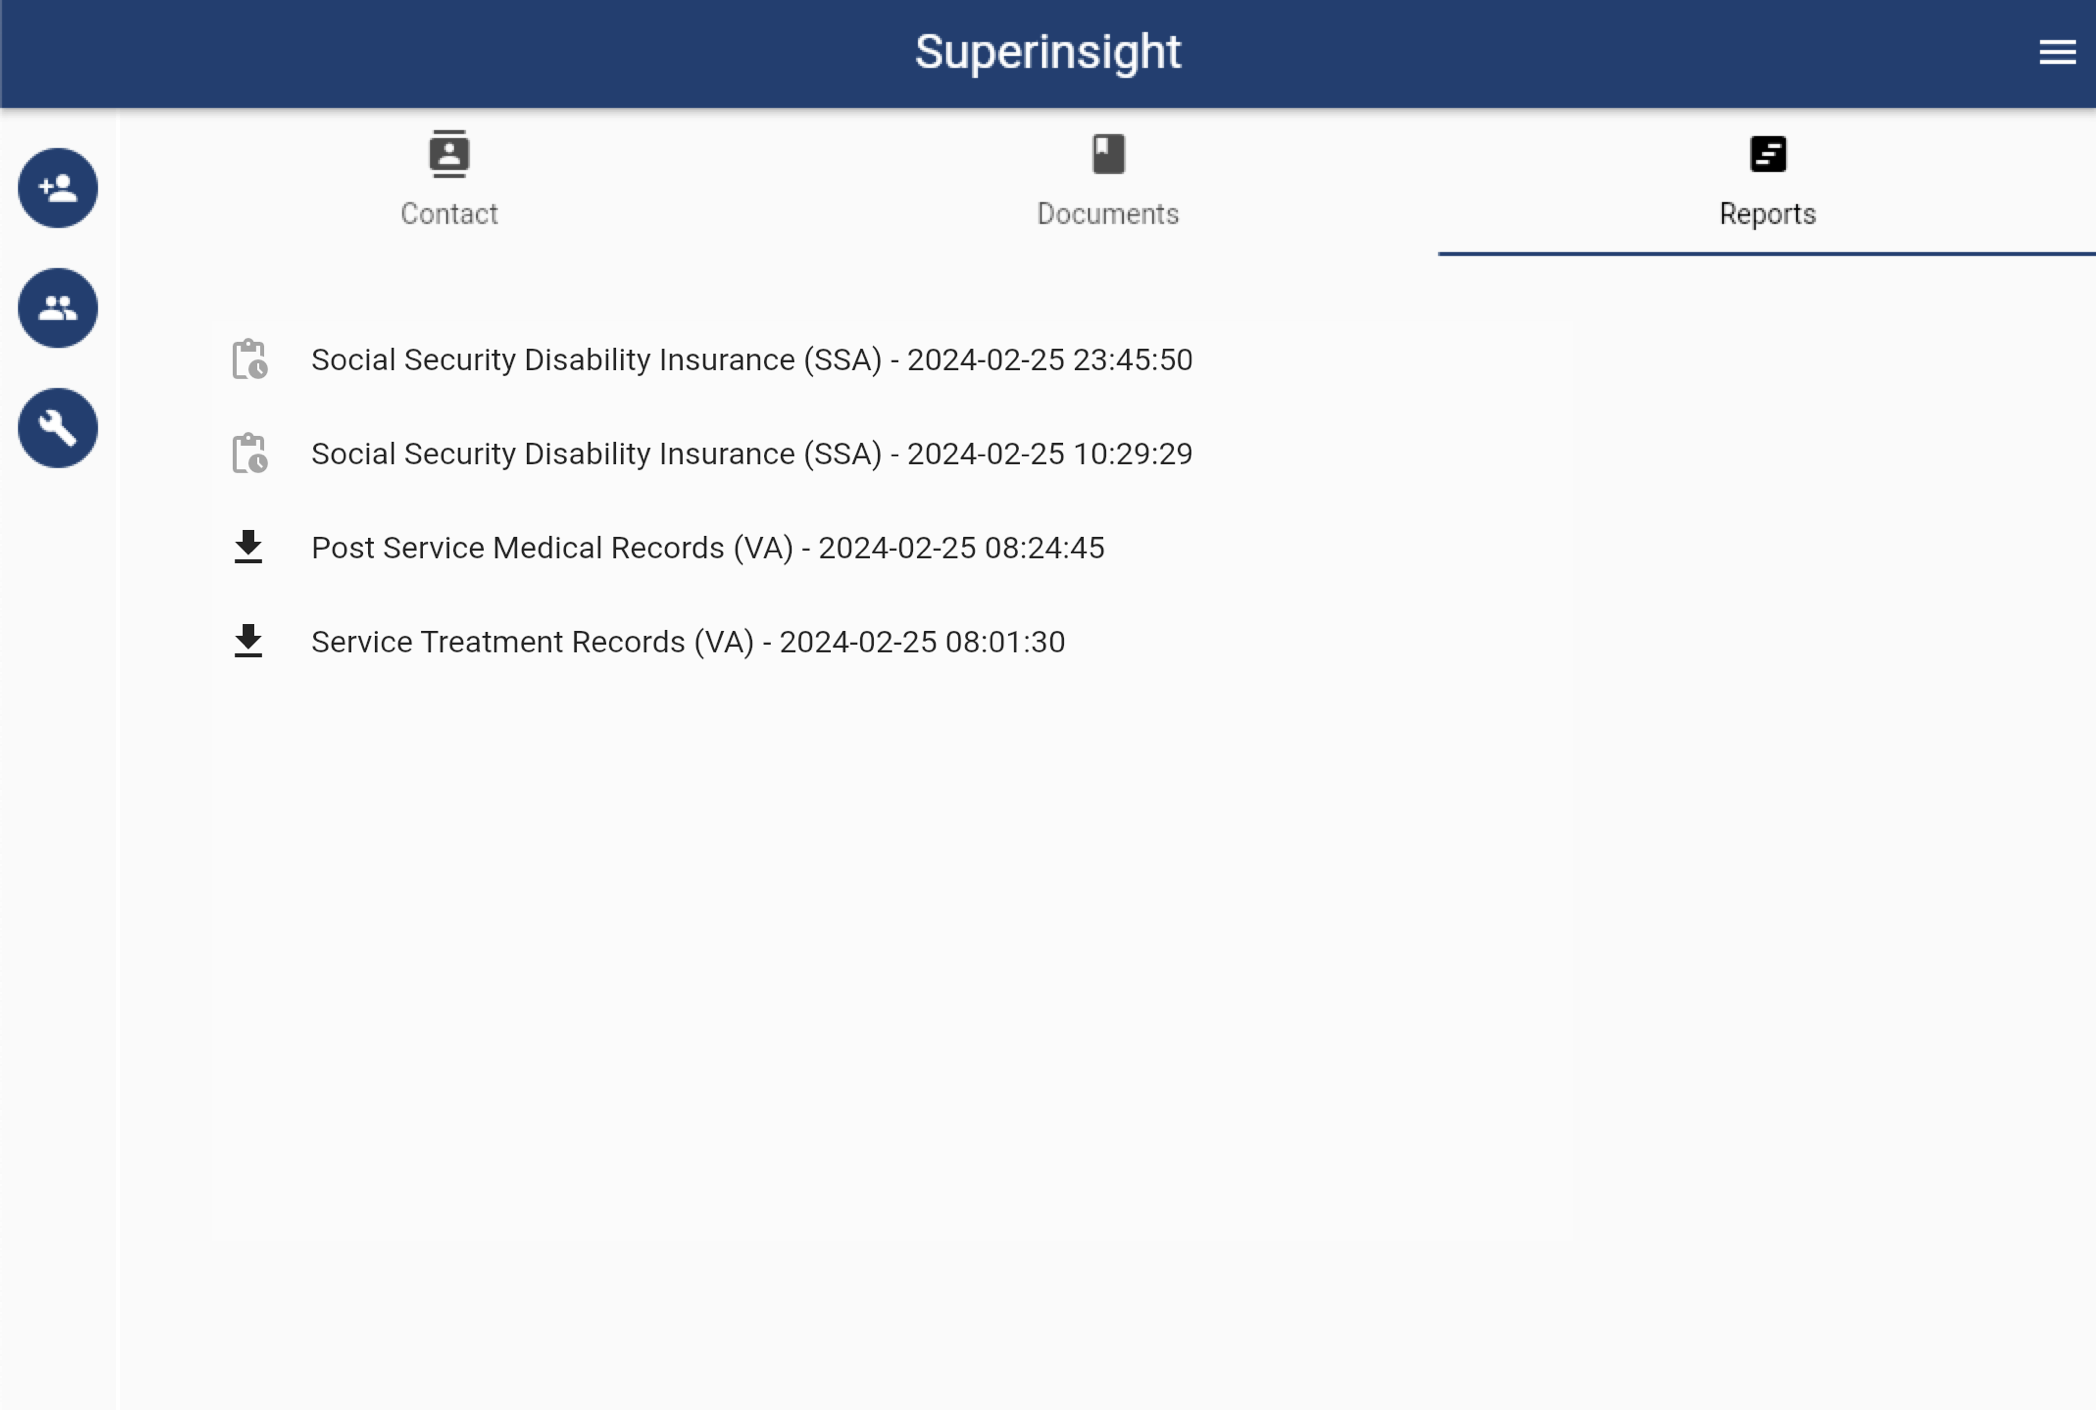
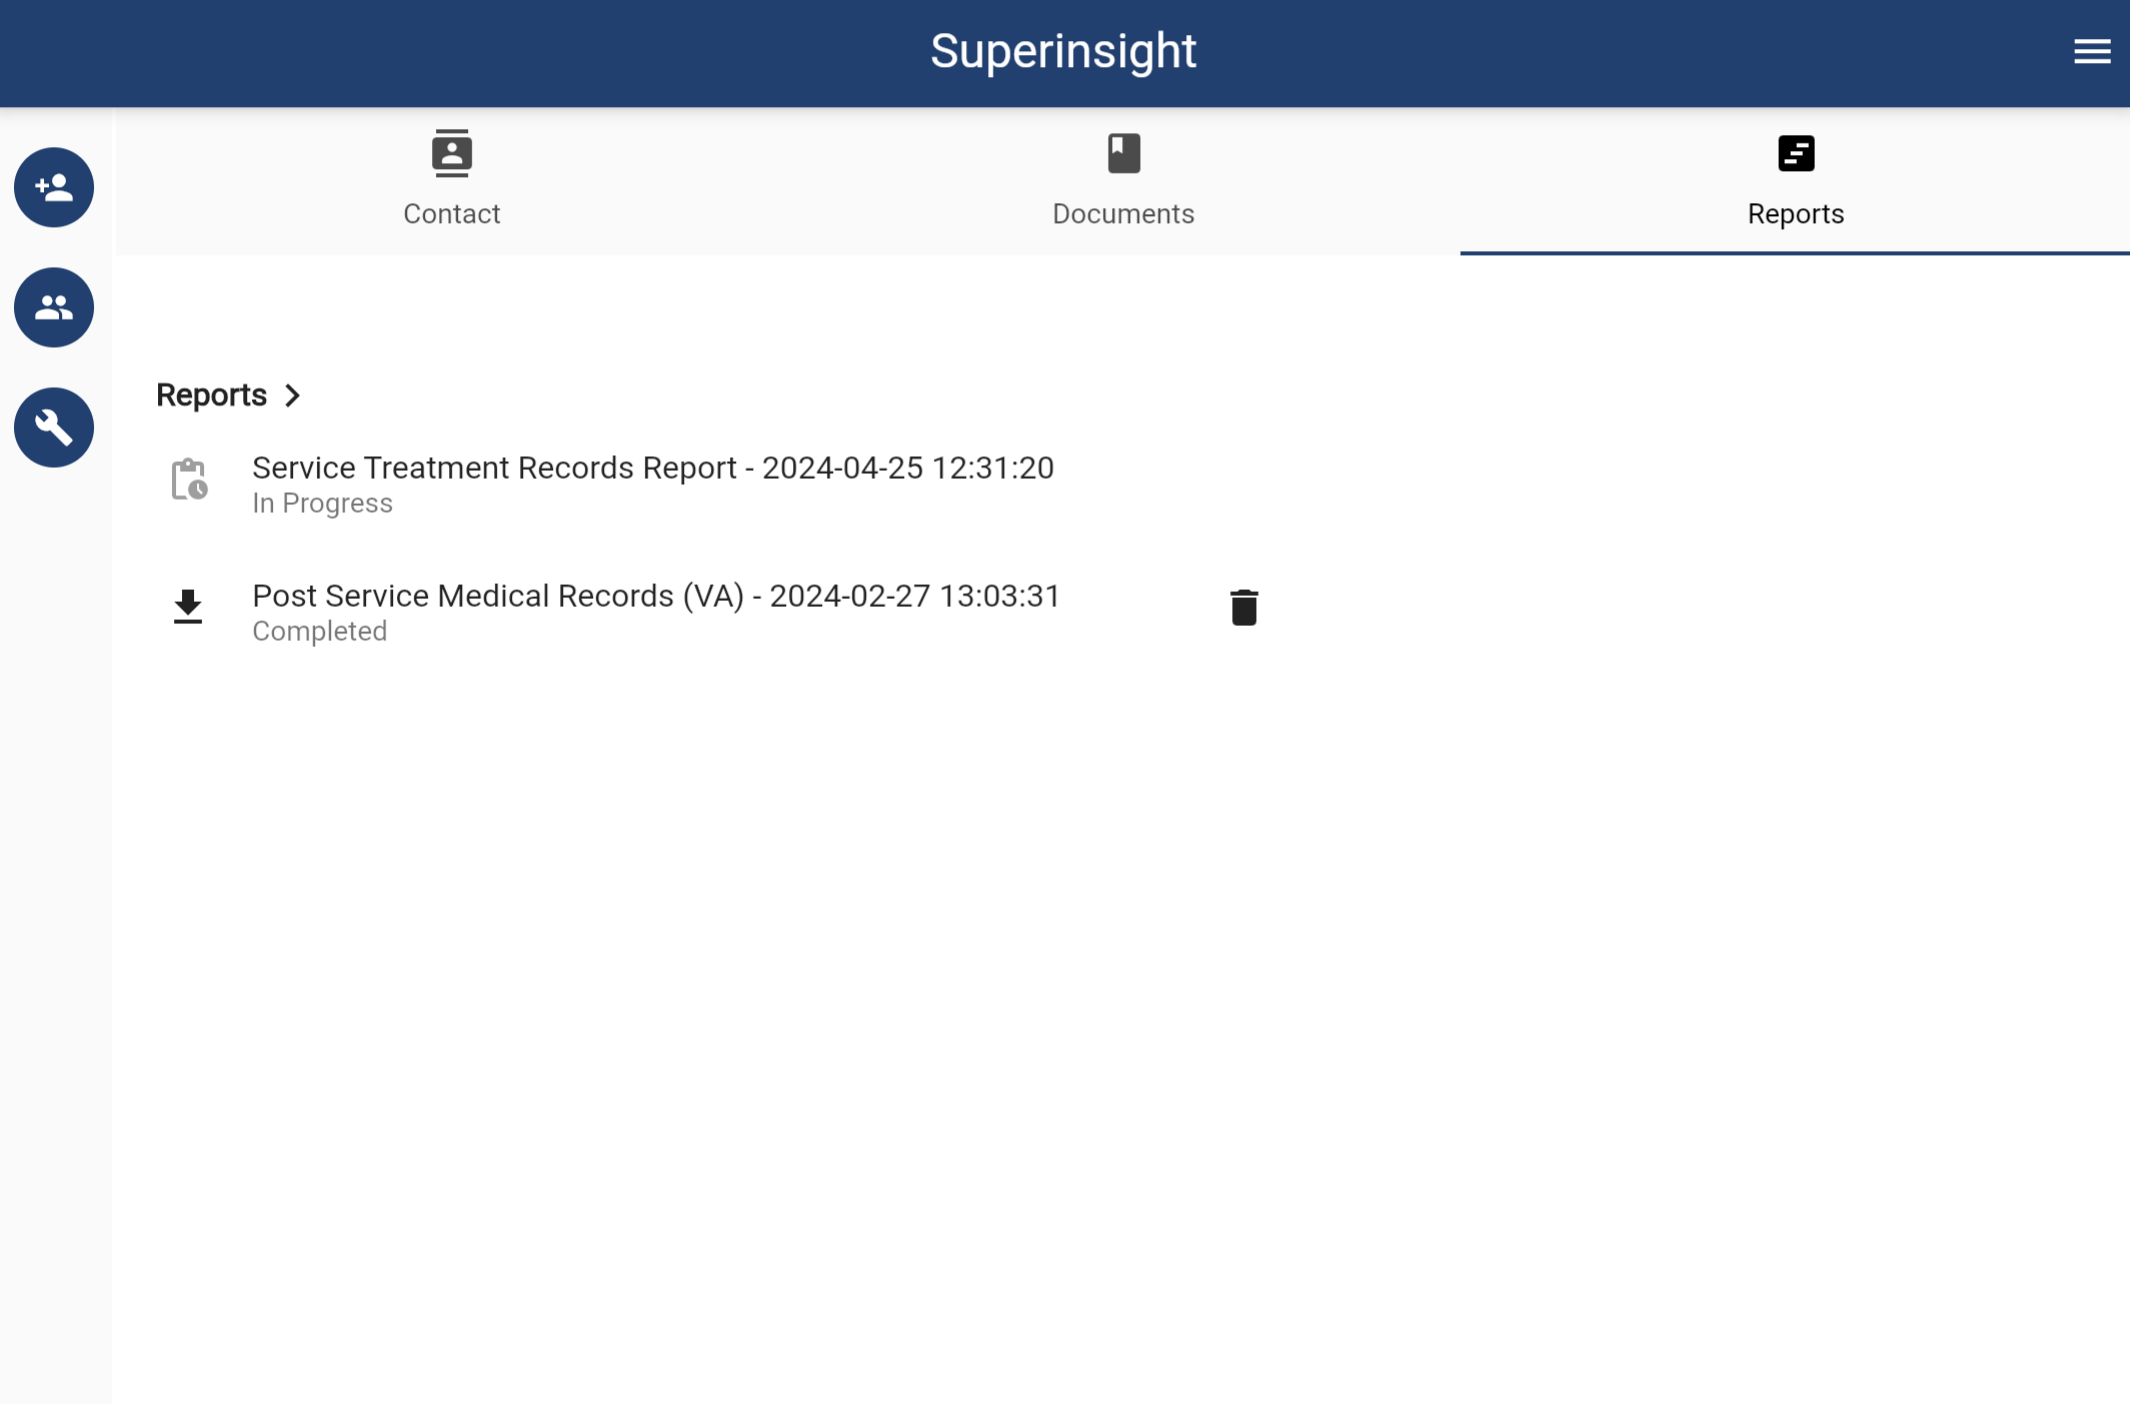
April update v2

diff --git a/docs/guide/case-report.md b/docs/guide/case-report.md
@@ -6,29 +6,45 @@ Besides real-time file analysis, Superinsight allows you to select multiple file
 
 Simply click on the "Build Report" button on the left and select all the files you want to be included in reports Superinsight supported. Before you submit to generate, make sure your file list is correct!
 
-=== "Click to Build"
+![Build a Report](../assets/images/tutorial/build-report.png)
 
-    ![Build a Report](../assets/images/tutorial/build-report.png)
+Select the report types that you want to build. Now we offer 3 types of report, including:
 
-=== "Select Report Type"
+* Veteran Disability
+* Social Security Disability
+* Mass Tort.
 
-    ![Select Report Type](../assets/images/tutorial/report-type.png)
+=== "Veteran Disability"
 
-=== "Select Files"
+    ![Veteran Disability](../assets/images/tutorial/report-type-va.png)
 
-    ![Select Files](../assets/images/tutorial/select-file.png)
+=== "Social Security Disability"
 
-=== "Confirm & Submit"
+    ![Social Security Disability](../assets/images/tutorial/report-type-ssd.png)
 
-    ![Confirm & Submit](../assets/images/tutorial/submit-file.png)
+=== "Mass Tort"
+
+    ![Mass Tort](../assets/images/tutorial/report-type-mt.png)
+
+Select files you want to include in the report.
+
+![Select Files](../assets/images/tutorial/select-file.png)
+
+Confirm all your selections and submit.
+
+![Confirm & Submit](../assets/images/tutorial/submit-file.png)
 
 After files are submitted, you will see the unclickable report in the "Reports" tab building behind the scenes. Once it is complete, it will turn black with the download icon, and you can check your reports anytime you want.
 
-If you check the report, you will see the elaborate table of contents and list of points you need.
+If you check the report, you will see the elaborate summary to help you find all the key evidence you need. To your preference, you can switch to the table of contents view as well.
 
 === "Report List"
 
     ![Report List](../assets/images/tutorial/report-list.png)
+
+=== "Summary"
+
+    ![Report Summary](../assets/images/tutorial/report-summary.png)
 
 === "Table of Content"
 
@@ -38,7 +54,13 @@ You can download your report in PDF format. Superinsight will combine the report
 
 ![Download Report](../assets/images/tutorial/report-pdf.png)
 
-## 2. Delete Reports
+## 2. Search Reports
+
+You may build a report with dozens of documents and it will take lots of time to find all the relevant information in a report with thousands of pages. With the search function, we can pick all the key points in seconds for you. Learn more about [Search](../guide/search.md)
+
+![Search Reports](../assets/images/tutorial/search-reports.png)
+
+## 3. Delete Reports
 
 In the "Report Tab", you can see all the reports are listed here and every report has a "Delete Report" button.
 

diff --git a/docs/guide/search.md b/docs/guide/search.md
@@ -1,0 +1,21 @@
+# Search For All
+
+Superinsight offers a powerful search feature for different demands. Let's dive into this useful feature and get your work done more efficiently.
+
+## 1. Search Cases
+
+You can find the search bar at the top of the case contacts list. Type in the name of the contact you are looking for, and Superinsight will find him/her immediately.
+
+![Search Cases](../assets/images/tutorial/search-cases.png)
+
+## 2. Search Documents
+
+In the Documents tab, you can also find the search bar. Type in the terms you're searching for, and then Superinsight will locate all the relevant information from thousands of your documents in seconds. Even precisely tell you which page of the documents.
+
+![Search Documents](../assets/images/tutorial/search-docs.png)
+
+## 3. Search Reports
+
+You may build a report with dozens of documents and it will take lots of time to find all the relevant information in a report with thousands of pages. With the search function, we can pick all the key points in seconds for you.
+
+![Search Reports](../assets/images/tutorial/search-reports.png)

diff --git a/docs/guide/release-notes.md b/docs/guide/release-notes.md
@@ -6,6 +6,20 @@ Release notes provide the list of items on feature changes, known issues, fixes,
 
 ---------------------------------------
 
+#### April 25, 2024 Released
+
+* We added a new guide for the search function.
+
+* New report types added
+
+* Updated guide for building reports and searching reports.
+
+* Improved the results of reports.
+
+* System optimized.
+
+---------------------------------------
+
 #### April 3, 2024 Released
 
 * We added delete guides in tutorial of managing cases, folders, files and reports.

diff --git a/docs/guide/index.md b/docs/guide/index.md
@@ -10,4 +10,5 @@ Learn more about Superinsight with the following How To Guide.
 | [Manage Folder](case-folder.md)              | Add, modify & delete your folders   |
 | [Manage File](case-files.md)                 | Manage cases relevant files         |
 | [Manage Report](case-report.md)              | Generate report from selected file  |
+| [Search](search.md)                          | Quick search for info you need      |
 | [Setting Menu](menu.md)                      | Check your billing and find support |
